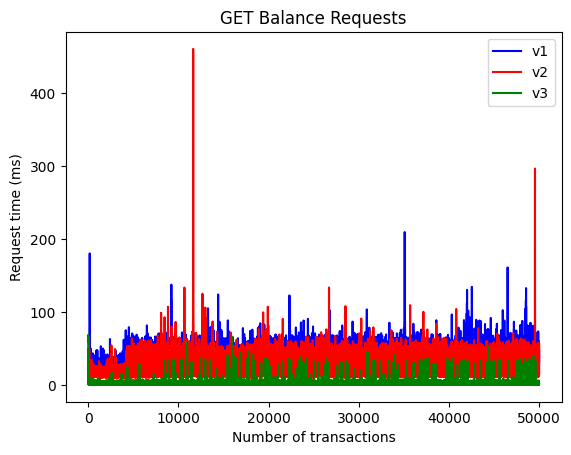
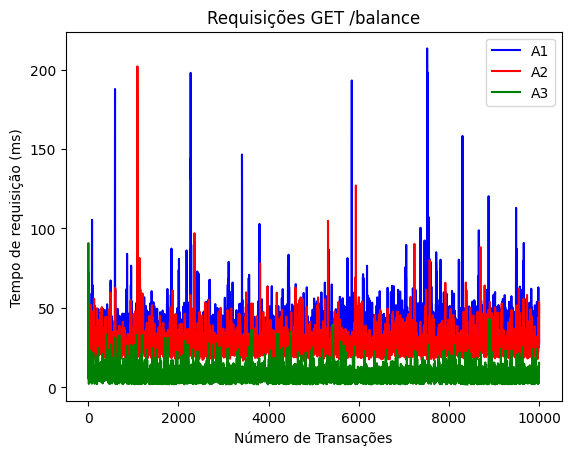
Update with new AWS tests

diff --git a/README.md b/README.md
@@ -36,19 +36,19 @@ O resultados dos testes foi salvo no Google Drive e a tratativa das métricas fo
 
 ---
 ## Abordagens
-### V1 - Cálculo Síncrono em Momento de Requisição
+### A1 - Cálculo Síncrono em Momento de Requisição
 A primeira abordagem é a mais simples e mais direta. Toda vez que um usuário solicita seu saldo, é rodado uma query no banco de dados que retorna a soma de todas suas transações.
 
-![](./designs/V1.png)
-### V2 - Cálculo Síncrono com Saldo Armazenado
+![](./designs/A1.png)
+### A2 - Cálculo Síncrono com Saldo Armazenado
 A segunda abordagem não atende as regras de normalização de banco de dados, em vista de conseguir um melhor tempo de leitura. Toda vez que uma transação é criada, seu valor é somado a um campo no banco de dados. Quando um usuário solicitar seu saldo, seu valor já estará calculado.
 
-![](./designs/V2.png)
+![](./designs/A2.png)
 Apesar de conseguir um melhor tempo de leitura, o tempo de escrita é maior, visto que são necessários pelo menos duas querys ao banco de dados para inserir uma transação.
-### V3 - Cálculo Assíncrono com Cache
+### A3 - Cálculo Assíncrono com Cache
 A terceira abordagem utiliza de processamento assíncrono e cache para conseguir melhores tempos de leitura, sem afetar consideravelmente o tempo de escrita. Toda vez que uma transação é criada, uma mensagem é enviada para outro módulo que fica responsável somente por atualizar o saldo. Quando um usuário solicitar seu saldo, seu valor já estará calculado e armazenado em cache, que possui um tempo de leitura muito menor que um banco de dados relacional.
 
-![](./designs/V3.png)
+![](./designs/A3.png)
 A principal vantagem dessa abordagem é possibilitar a expansão de funcionalidades sem acrescentar ao tempo de execução. Se a aplicação recebesse novas funcionalidades de notificação ao celular e por email, por exemplo, bastaria que novas filas e módulos escutassem essa mensagem e processassem assíncronamente. As filas podem ter DLQs para mensagens que falham e podem ter controle de TPS e de ordem (Fifo), o que permite a aplicação escalar muito sem causar problemas.
 
 ![](./designs/Complete.png)

diff --git a/results/README.md b/results/README.md
@@ -1,5 +1,11 @@
 # Results
 
+```
+--- 172.31.4.241 ping statistics ---
+10 packets transmitted, 10 received, 0% packet loss, time 9351ms
+rtt min/avg/max/mdev = 0.445/0.481/0.560/0.036 ms
+```
+
 ![](./Requests.png)
 
 ![](./POST.png)

diff --git a/designs/README.md b/designs/README.md
@@ -3,11 +3,11 @@
 ## Database
 ![](./Database.png)
 
-## V1
-![](./V1.png)
+## Abordagem 1
+![](./A1.png)
 
-## V2
-![](./V2.png)
+## Abordagem 2
+![](./A2.png)
 
-## V3
-![](./V3.png)
+## Abordagem 3
+![](./A3.png)
